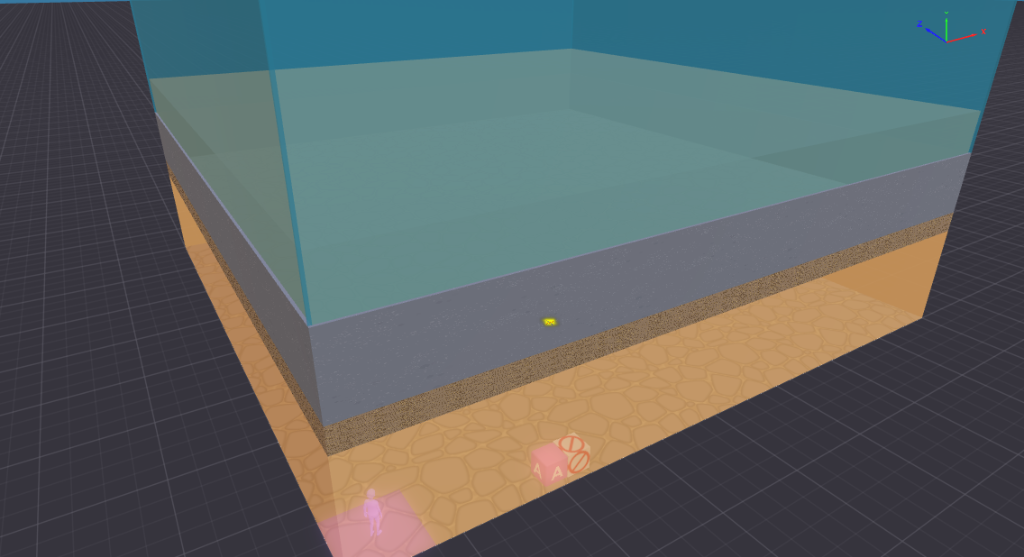
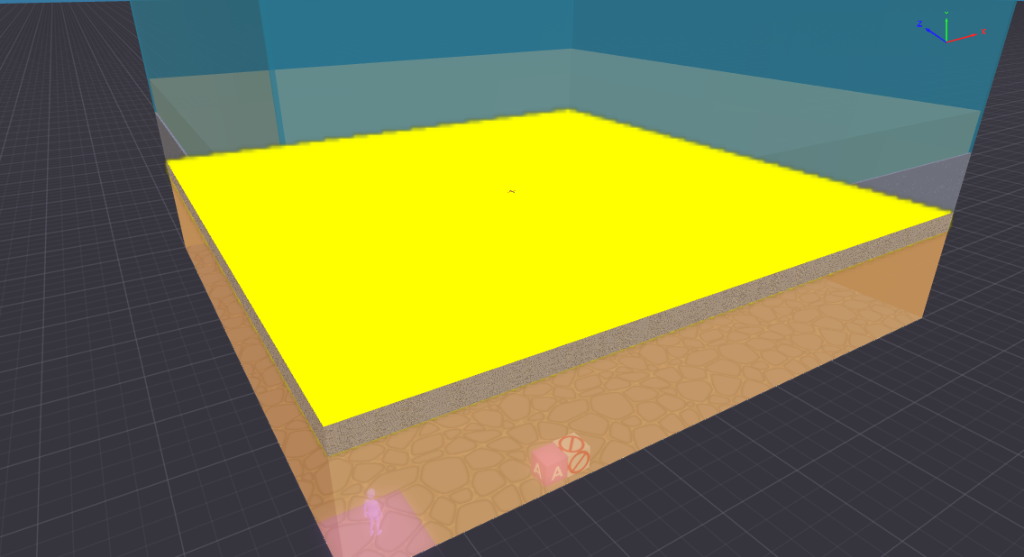
commit 4

Changed region(s): [[0.1562, 0.1831, 0.9375, 0.8241]]

diff --git a/New Scene 14/src/index.ts b/New Scene 14/src/index.ts
@@ -121,7 +121,7 @@ export function main() {
       transform: {
         position: Vector3.create(3, 1.5, 3),
         rotation: Quaternion.fromEulerDegrees(0, 0, 0),
-        scale: Vector3.create(0.1, 3, 5)
+        scale: Vector3.create(0.1, 3, 4)
       },
       material: {
         texture: {
@@ -142,11 +142,74 @@ export function main() {
       transform: {
         position: Vector3.create(5, 1.5, 3),
         rotation: Quaternion.fromEulerDegrees(0, 0, 0),
-        scale: Vector3.create(0.1, 3, 5)
+        scale: Vector3.create(0.1, 3, 4)
       },
       material: {
         texture: {
           src: 'assets/asset-packs/concrete/FloorBaseConcrete_01/Floor_Concrete01.png.png'
+        }
+      },
+      meshCollider: { shape: ShapeType.BOX },
+      meshRenderer: { shape: ShapeType.BOX }
+    }
+  )
+
+  updateGameEntity(
+    UpdateEntityState.ADD,
+    false,
+    UpdateEntityType.BARRIER,
+    BarrierType.WALL,
+    {
+      transform: {
+        position: Vector3.create(5, 1.5, 1),
+        rotation: Quaternion.fromEulerDegrees(0, 90, 0),
+        scale: Vector3.create(0.1, 3, 4)
+      },
+      material: {
+        texture: {
+          src: 'assets/asset-packs/concrete/FloorBaseConcrete_01/Floor_Concrete01.png.png'
+        }
+      },
+      meshCollider: { shape: ShapeType.BOX },
+      meshRenderer: { shape: ShapeType.BOX }
+    }
+  )
+
+  updateGameEntity(
+    UpdateEntityState.ADD,
+    false,
+    UpdateEntityType.BARRIER,
+    BarrierType.BUSH,
+    {
+      transform: {
+        position: Vector3.create(7, 1.5, 3),
+        rotation: Quaternion.fromEulerDegrees(0, 0, 0),
+        scale: Vector3.create(0.1, 3, 4)
+      },
+      material: {
+        texture: {
+          src: 'assets/asset-packs/bermuda_grass/FloorBaseGrass_01/Floor_Grass01.png.png'
+        }
+      },
+      meshCollider: { shape: ShapeType.BOX },
+      meshRenderer: { shape: ShapeType.BOX }
+    }
+  )
+
+  updateGameEntity(
+    UpdateEntityState.ADD,
+    false,
+    UpdateEntityType.BARRIER,
+    BarrierType.BUSH,
+    {
+      transform: {
+        position: Vector3.create(9, 1.5, 3),
+        rotation: Quaternion.fromEulerDegrees(0, 0, 0),
+        scale: Vector3.create(0.1, 3, 4)
+      },
+      material: {
+        texture: {
+          src: 'assets/asset-packs/bermuda_grass/FloorBaseGrass_01/Floor_Grass01.png.png'
         }
       },
       meshCollider: { shape: ShapeType.BOX },

diff --git a/New Scene 14/src/ui.tsx b/New Scene 14/src/ui.tsx
@@ -836,7 +836,7 @@ export function updateGameEntity(
   if (updateEntityState === UpdateEntityState.ADD &&
     updateEntitySync === false &&
     updateEntityType === UpdateEntityType.BARRIER &&
-    updateEntitySubtype === BarrierType.WALL
+    (updateEntitySubtype === BarrierType.WALL || updateEntitySubtype === BarrierType.BUSH)
   ) {
     if (components.transform) {
       let transformData: any = {}
@@ -1102,7 +1102,7 @@ engine.addSystem(() => {
       (getGameSession[getGameSession.length - 1].state === SessionState.WAIT ||
       getGameSession[getGameSession.length - 1].state === SessionState.CONTINUE) &&
       !gamePlayerTriggerArea) {
-      if (getGameSession[getGameSession.length - 1].state === SessionState.CONTINUE) {
+      /*if (getGameSession[getGameSession.length - 1].state === SessionState.CONTINUE) {
         if (VisibilityComponent.get(gameButtons.join).visible === true) {
           GltfContainer.createOrReplace(gameButtons.join, {
             src: 'assets/asset-packs/green_light_button/green_scifi_button.glb',
@@ -1131,7 +1131,7 @@ engine.addSystem(() => {
         VisibilityComponent.createOrReplace(gameButtons.view, {
           visible: true
         })
-      }
+      }*/
       sceneMessageBus.on('playerJoin', (player) => {
         console.log('player join: ', JSON.stringify(player))
       })